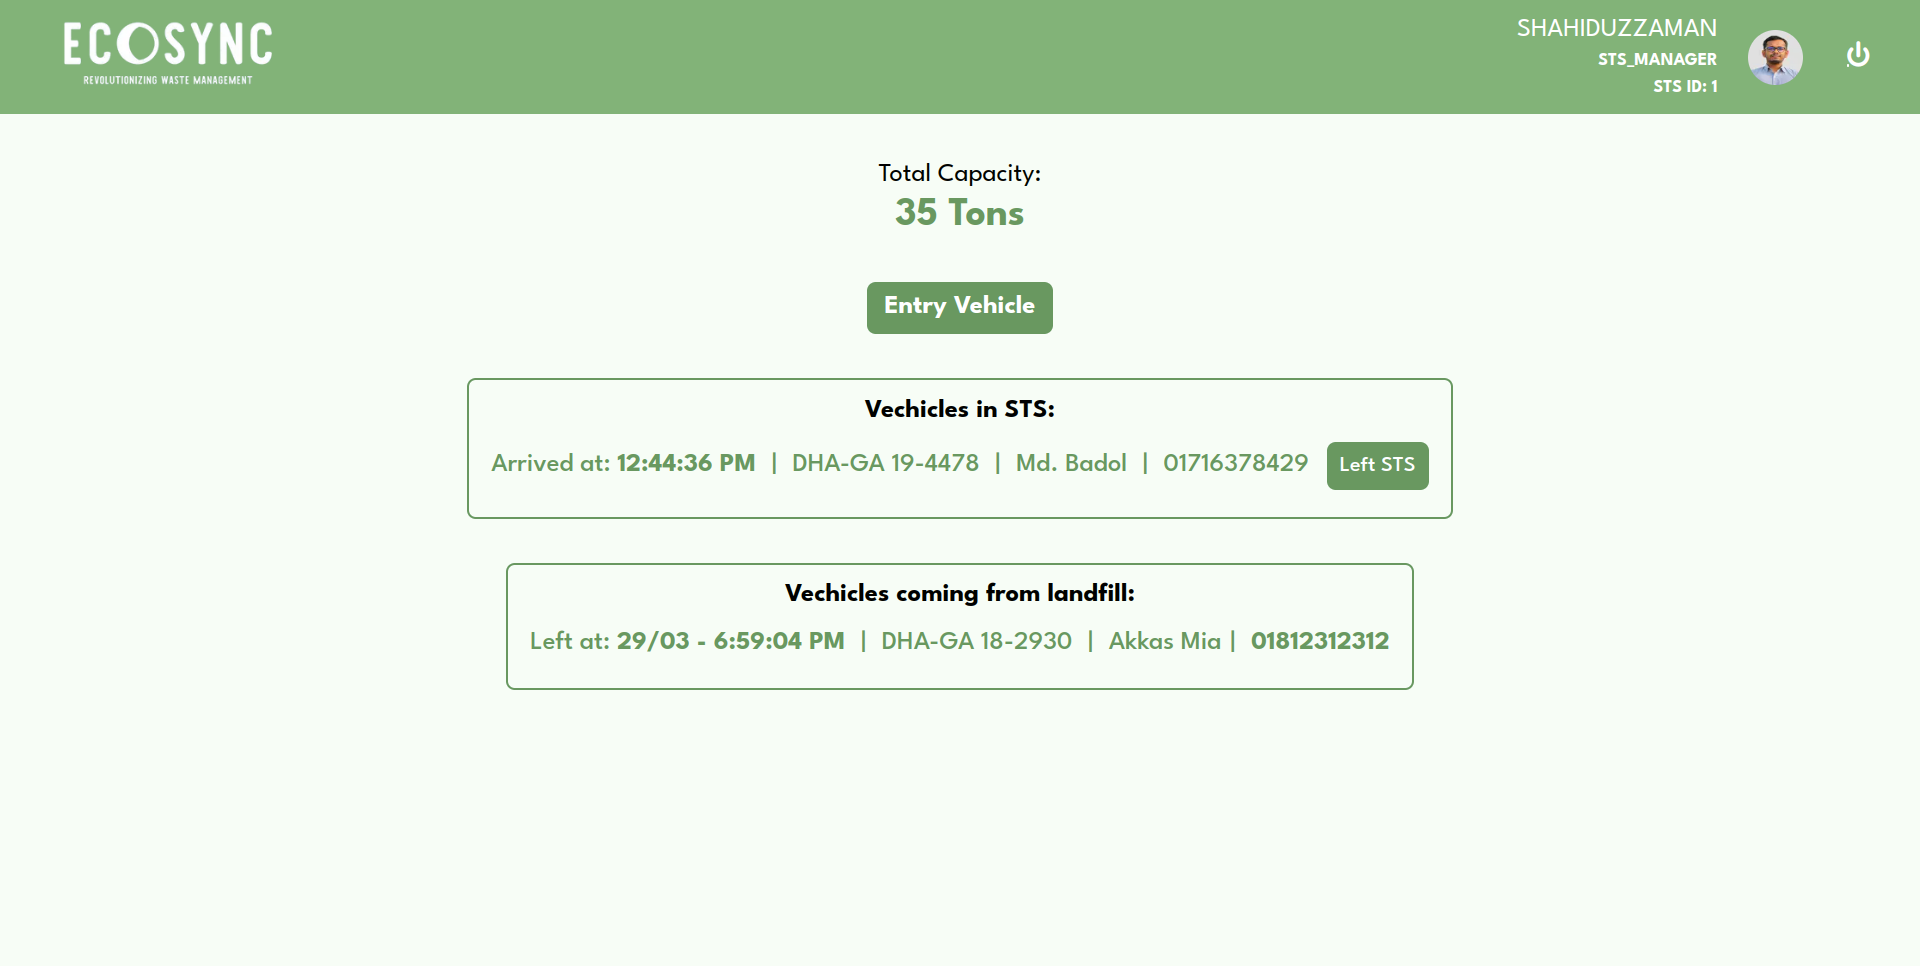
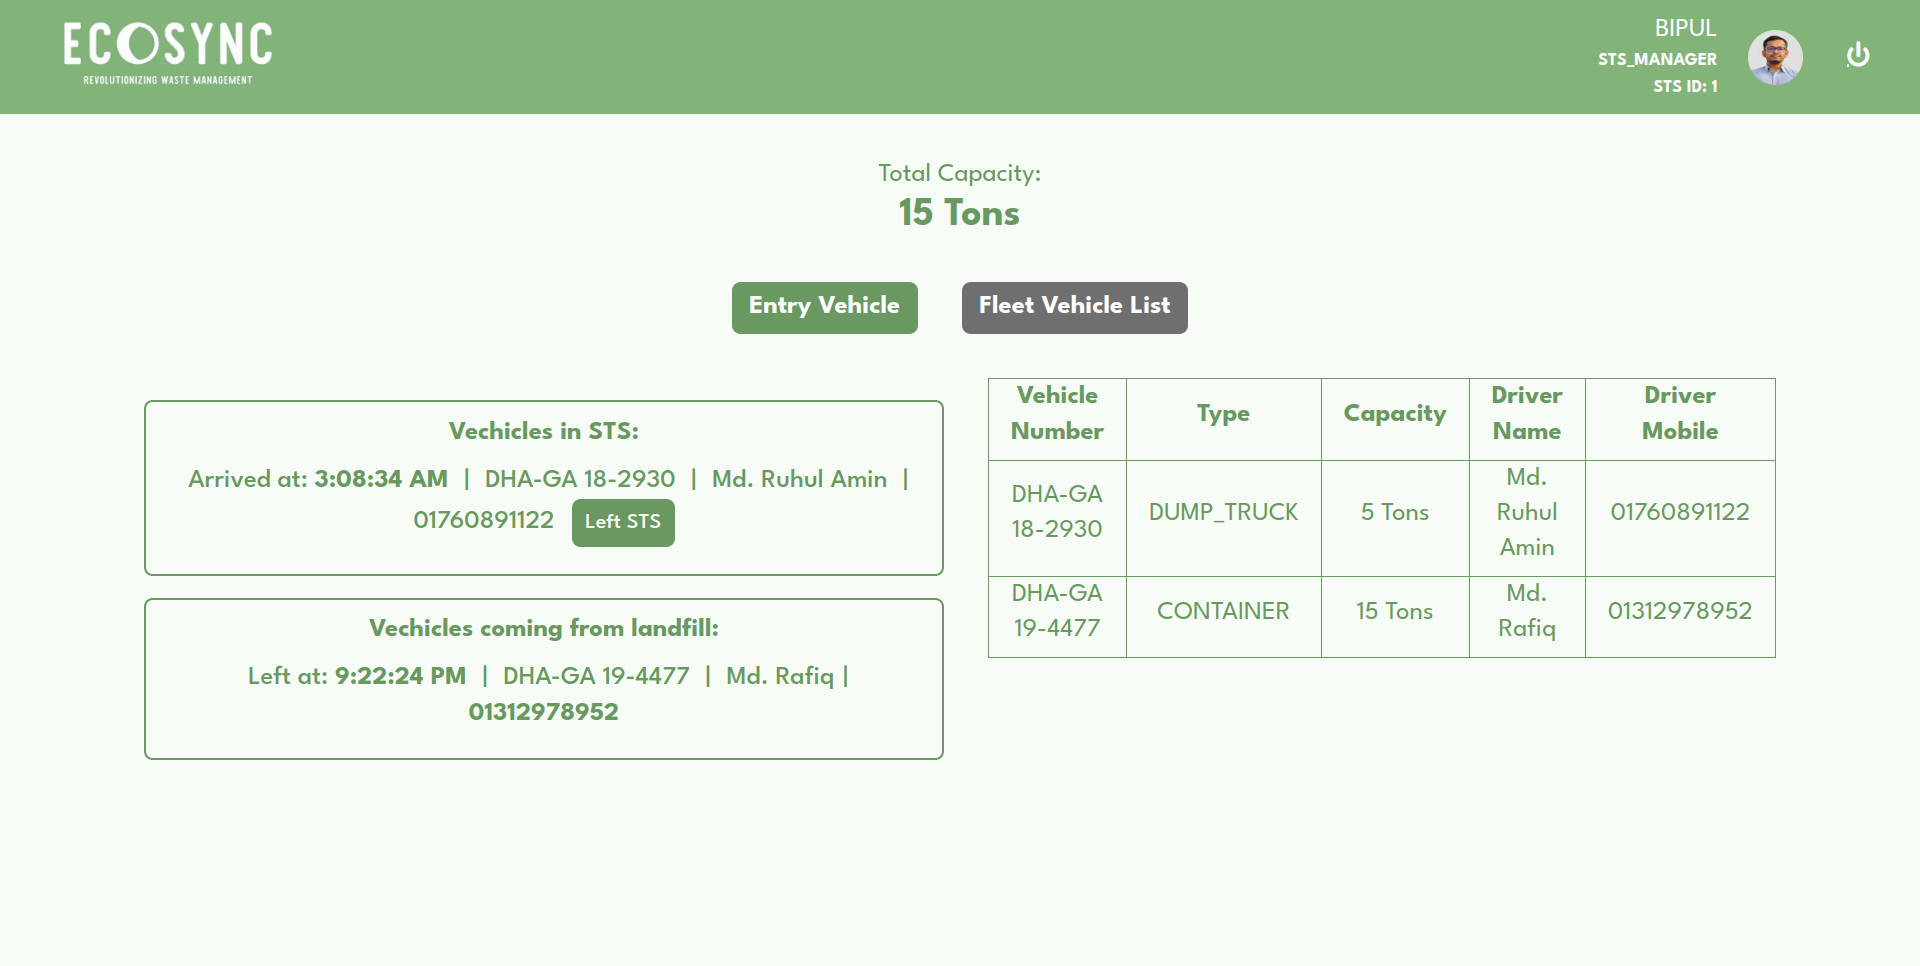
Fixed bugs for Fleet Optimization

diff --git a/backend/src/sts.ts b/backend/src/sts.ts
@@ -123,7 +123,7 @@ export const vehicleStsEntry = async (req: Request, res: Response) => {
     const userId = getUserId(token);
     const { sts_id, vehicle_number, waste_volume } = req.body;
 
-    const [user, vehicle] = await prisma.$transaction([
+    const [user, vehicle, vehicleIn] = await prisma.$transaction([
       prisma.user.findFirst({
         where: {
           id: userId,
@@ -140,6 +140,12 @@ export const vehicleStsEntry = async (req: Request, res: Response) => {
           sts_id: true,
         },
       }),
+      prisma.sts_Vehicle.findFirst({
+        where: {
+          vehicle_number,
+          departure_time: null,
+        },
+      }),
     ]);
 
     if (!user) {
@@ -154,6 +160,8 @@ export const vehicleStsEntry = async (req: Request, res: Response) => {
       return res
         .status(403)
         .json({ message: "The vehicle belong to another STS" });
+    } else if (vehicleIn) {
+      return res.status(403).json({ message: "Vehicle already in STS" });
     }
 
     const stsVehicle = await prisma.sts_Vehicle.create({
@@ -387,6 +395,7 @@ export const fleetOptimization = async (req: Request, res: Response) => {
       cost_per_km_load: number;
       cost_per_km_unload: number;
       sts_id: number;
+      per_ton: number;
     }[] = [];
 
     sts_vechile.forEach((vehicle) => {
@@ -395,6 +404,7 @@ export const fleetOptimization = async (req: Request, res: Response) => {
         trip: 3,
         cost_loaded: vehicle.cost_per_km_unload + vehicle.cost_per_km_load,
         travelling: false,
+        per_ton: 0,
       };
       vehicle_trip.forEach((trip) => {
         if (trip.vehicle_number == vehicle.vehicle_number) {
@@ -402,11 +412,23 @@ export const fleetOptimization = async (req: Request, res: Response) => {
           tmp.travelling = trip.departure_time ? false : true;
         }
       });
-      if (tmp.trip) vehicles.push(tmp);
+      if (tmp.trip) {
+        tmp.per_ton = tmp.cost_loaded / (tmp.trip * tmp.capacity);
+        vehicles.push(tmp);
+      }
     });
+
+    vehicles.sort(comparator);
 
     return res.status(200).json(vehicles);
   } catch (e) {
     return res.status(500).json({ message: "Server Error" });
   }
 };
+
+function comparator(a: any, b: any) {
+  if (a.per_ton == b.per_ton) {
+    return b.capacity - a.capacity;
+  }
+  return a.per_ton - b.per_ton;
+}

diff --git a/backend/src/landfill.ts b/backend/src/landfill.ts
@@ -133,6 +133,8 @@ export const vehicleLandfillEntry = async (req: Request, res: Response) => {
       },
     });
 
+    console.log(landfillVehicleId?.landfill_id, user.landfill_id);
+
     if (landfillVehicleId?.landfill_id !== user.landfill_id) {
       return res.status(403).json({ message: "Forbidden" });
     }
@@ -148,7 +150,7 @@ export const vehicleLandfillEntry = async (req: Request, res: Response) => {
       },
     });
 
-    if (!landfillVehicle) {
+    if (!landfillVehicle.count) {
       return res.status(404).json({ message: "Vehicle Not Found" });
     }
 

diff --git a/frontend/src/app/(dashboard)/sts_manager/page.tsx b/frontend/src/app/(dashboard)/sts_manager/page.tsx
@@ -69,7 +69,7 @@ export default async function StsManager() {
           <VechiclesInSTS sts_vehicle={sts_vehicle} leftSTS={leftSTS} />
           <VehicleComingFromLandfill landfill_vehicle={landfill_vehicle} />
         </div>
-        <div>
+        <div className="ml-10">
           {sts.vehicle.length === 0 ? (
             <h2 className="text-xl font-medium">No vehicle to show</h2>
           ) : (

diff --git a/frontend/files.ts b/frontend/files.ts
@@ -1,1 +1,1 @@
-export const baseURL = "http://localhost:8000";
+export const baseURL = "http://backend:8000";
